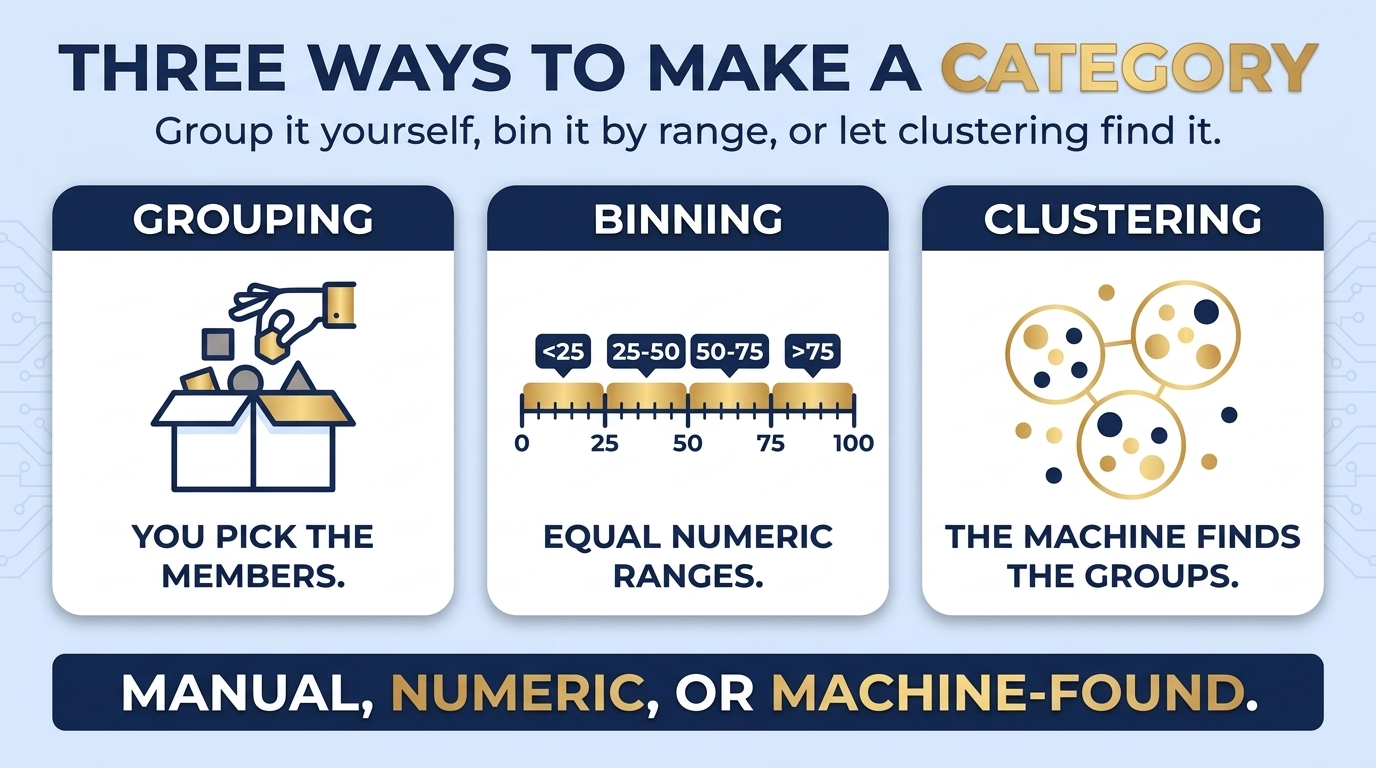
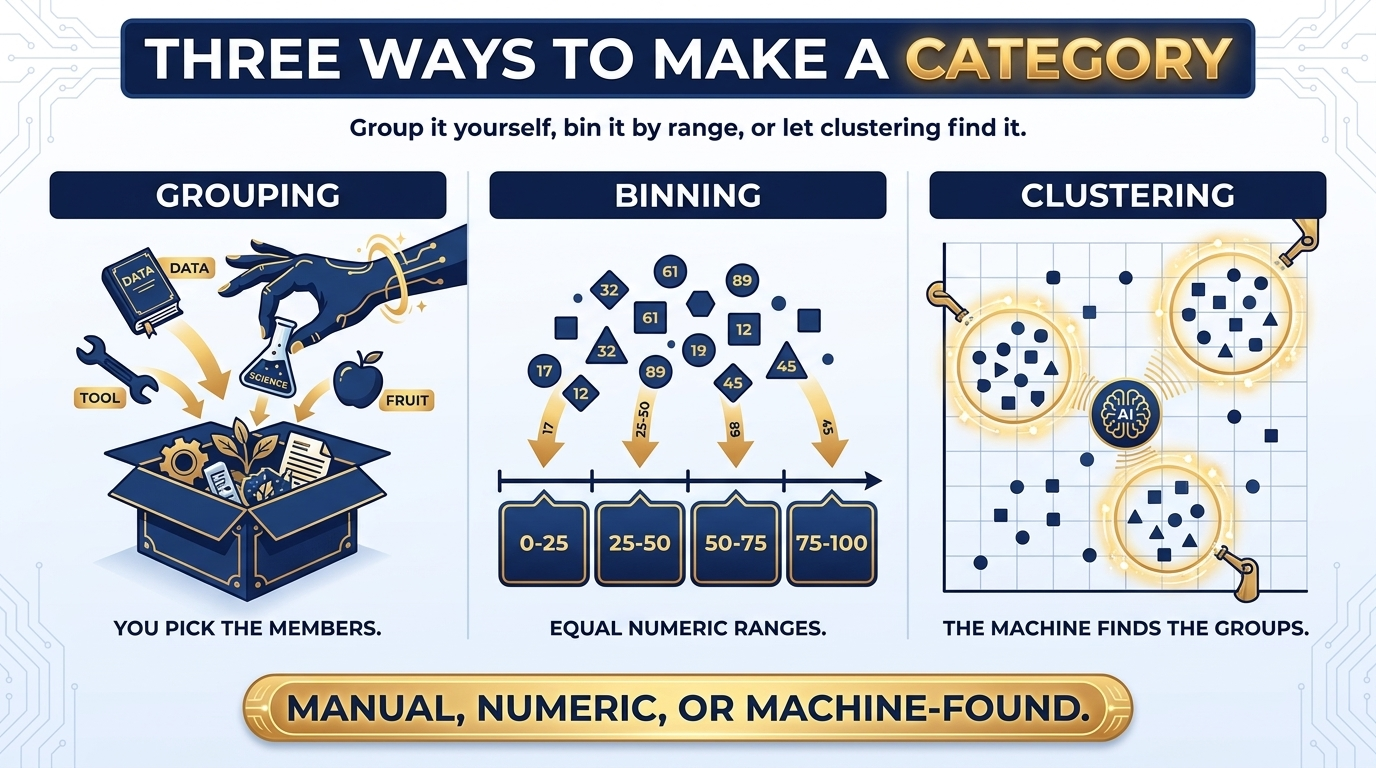
Restyle Chapter 6-7 inner figures; refresh style-reference anchors
Rebuild the inner figures of Chapters 6 and 7 in the rich
master-infographic style, completing the book-wide image restyle.

- Ch6: three ways to make a category (3-panel), the decomposition tree
  (branching tree), before-you-trust-an-AI-insight (checklist).
- Ch7: dashboard/report/app (row diagram), pinning builds a dashboard
  (before/after), and One Report Every Audience (hub-and-spoke) —
  fig-7-4 recomposed from a pipeline so it no longer doubles the Ch7
  opener's journey; renamed accordingly.
- Refresh images/_style-reference/ with current navy/gold figures.
- Each chapter's four figures use four distinct compositions.
- Both chapters build clean with no MyST warnings.

diff --git a/chapters/ch07-dashboards-mobile-distribution.md b/chapters/ch07-dashboards-mobile-distribution.md
@@ -103,8 +103,9 @@ NANO BANANA PRO — CHAPTER 7 FIGURE 2 (concept infographic)
 File: images/ch07/fig-7-2-dashboard-report-app.png
 Title: Dashboard, Report, or App
 Concept: The three Power BI containers compared — what each is and which audience it serves.
-Archetype: Row diagram — three full-width stacked panels, each [icon badge] · [description] · [pill verdict].
-Reference: images/_style-reference/fig-1-3-visual-encoding.png
+Archetype: Rich row diagram — three full-width stacked panels, each an icon badge, an illustrated example, and a pill verdict; ai4educators master-infographic style, navy/gold.
+Reference (composition): ../../.ref-ai4ed/ai4ed-ch01-fig-struggle.png
+Reference (palette): images/ch07/fig-7-1-ch7-at-a-glance.png
 Labels: rows DASHBOARD / AT-A-GLANCE MONITOR, REPORT / EXPLORE THE DETAIL, APP / DELIVER TO EVERYONE; footer "PICK BY WHO THE AUDIENCE IS".
 Palette: navy #1B2A47, gold #C9A23A, white / pale-blue background.
 -->
@@ -151,8 +152,9 @@ NANO BANANA PRO — CHAPTER 7 FIGURE 3 (concept infographic)
 File: images/ch07/fig-7-3-pinning-dashboard.png
 Title: Pinning Builds a Dashboard
 Concept: A dashboard is assembled by pinning individual visuals from one or more report pages into one tiled screen.
-Archetype: Before/after — two side-by-side panels with a central gold arrow.
-Reference: images/_style-reference/fig-3-2-two-reactions.png
+Archetype: Rich before/after — two illustrated panels (report pages with pushpins / one tiled dashboard) with a central PIN arrow; ai4educators master-infographic style, navy/gold.
+Reference (composition): ../../.ref-ai4ed/ai4ed-ch01-fig-tuesdays.png
+Reference (palette): images/ch07/fig-7-1-ch7-at-a-glance.png
 Labels: left panel "REPORT PAGES" (separate report pages with pushpin icons on visuals); right panel "ONE DASHBOARD" (a tidy grid of pinned tiles); footer "PIN THE BEST TILES INTO ONE VIEW".
 Palette: navy #1B2A47, gold #C9A23A, white / pale-blue background.
 -->
@@ -308,22 +310,23 @@ It can feel like a loss of control to let users repaint your visuals and pull yo
 
 <!--
 NANO BANANA PRO — CHAPTER 7 FIGURE 4 (synthesis infographic)
-File: images/ch07/fig-7-4-delivery-pipeline.png
-Title: From One File to Every Screen
-Concept: The delivery pipeline — the stages that carry a report from a laptop file to the whole organization.
-Archetype: Process flow — five numbered stages joined by arrows.
-Reference: images/_style-reference/fig-3-2-two-reactions.png
-Labels: stages BUILD IN DESKTOP, PUBLISH TO THE SERVICE, PIN A DASHBOARD, BUNDLE AN APP, REACHES EVERY DEVICE; banner "BUILDING IT IS HALF THE JOB".
+File: images/ch07/fig-7-4-one-report-every-audience.png
+Title: One Report, Every Audience
+Concept: The case study synthesized — one finished report reaching every audience through the right delivery channel.
+Archetype: Rich hub-and-spoke — a central delivered report with six illustrated delivery-outcome spokes; ai4educators master-infographic style, navy/gold (deliberately NOT a left-to-right pipeline, to differ from the Ch7 opener journey).
+Reference (composition): ../../.ref-ai4ed/ai4ed-ch06-opener.png
+Reference (palette): images/ch07/fig-7-1-ch7-at-a-glance.png
+Labels: hub THE DELIVERED REPORT; spokes EXEC DASHBOARD, MOBILE, DATA ALERT, WEEKLY SUBSCRIPTION, PAGINATED REPORT, PUBLISHED APP; banner "FROM THREE VIEWERS TO THIRTY-EIGHT".
 Palette: navy #1B2A47, gold #C9A23A, white / pale-blue background.
 -->
 
-:::{figure} ../images/ch07/fig-7-4-delivery-pipeline.png
+:::{figure} ../images/ch07/fig-7-4-one-report-every-audience.png
 :label: fig-7-4
-:alt: A five-stage process-flow infographic titled "From One File to Every Screen": build in Desktop, publish to the Service, pin a dashboard, bundle an app, reaches every device. A banner reads "building it is half the job."
+:alt: A hub-and-spoke infographic titled "One Report, Every Audience." A central "delivered report" connects to six delivery outcomes: exec dashboard, mobile, data alert, weekly subscription, paginated report, and published app. A banner reads "from three viewers to thirty-eight."
 :width: 100%
 :align: center
 
-**Figure 7.4.** *From One File to Every Screen.* The delivery pipeline — the case study, drawn as the path the report takes.
+**Figure 7.4.** *One Report, Every Audience.* The case study — one finished report, reaching every audience through the right channel.
 :::
 
 Camila reopened the rollout with Jamal, this time treating delivery as the real work.

diff --git a/chapters/ch06-ai-patterns-anomalies-copilot.md b/chapters/ch06-ai-patterns-anomalies-copilot.md
@@ -100,8 +100,9 @@ NANO BANANA PRO — CHAPTER 6 FIGURE 2 (concept infographic)
 File: images/ch06/fig-6-2-three-ways-category.png
 Title: Three Ways to Make a Category
 Concept: Grouping, binning, and clustering compared — who decides the buckets in each.
-Archetype: Three-panel comparison — three equal side-by-side panels.
-Reference: images/_style-reference/fig-3-2-two-reactions.png
+Archetype: Rich three-panel comparison — three illustrated side-by-side panels; ai4educators master-infographic style, navy/gold.
+Reference (composition): ../../.ref-ai4ed/ai4ed-ch02-opener.png
+Reference (palette): images/ch06/fig-6-1-ch6-at-a-glance.png
 Labels: panels GROUPING / YOU PICK THE MEMBERS, BINNING / EQUAL NUMERIC RANGES, CLUSTERING / THE MACHINE FINDS THE GROUPS; footer "MANUAL, NUMERIC, OR MACHINE-FOUND".
 Palette: navy #1B2A47, gold #C9A23A, white / pale-blue background.
 -->
@@ -178,8 +179,9 @@ NANO BANANA PRO — CHAPTER 6 FIGURE 3 (concept infographic)
 File: images/ch06/fig-6-3-decomposition-tree.png
 Title: The Decomposition Tree
 Concept: How the Decomposition Tree breaks one measure apart, branch by branch, with an optional AI-chosen split.
-Archetype: Tree diagram — a left-to-right branching tree.
-Reference: images/_style-reference/fig-3-2-two-reactions.png
+Archetype: Rich tree diagram — a left-to-right branching tree with illustrated nodes; ai4educators master-infographic style, navy/gold.
+Reference (composition): ../../.ref-ai4ed/ai4ed-ch01-fig-bloom.png
+Reference (palette): images/ch06/fig-6-1-ch6-at-a-glance.png
 Labels: root TOTAL SALES; level 2 BIKES, COMPONENTS, CLOTHING; level 3 (under BIKES) UNITED STATES, GERMANY, AUSTRALIA; GERMANY carries a "HIGH VALUE" badge; footer "CLICK A BRANCH, OR LET AI PICK THE SPLIT".
 Palette: navy #1B2A47, gold #C9A23A, white / pale-blue background.
 -->
@@ -324,8 +326,9 @@ NANO BANANA PRO — CHAPTER 6 FIGURE 4 (synthesis infographic)
 File: images/ch06/fig-6-4-trust-ai-insight.png
 Title: Before You Trust an AI Insight
 Concept: A five-point verification checklist to run on any AI-generated insight before it informs a decision.
-Archetype: Checklist — five stacked check rows.
-Reference: images/_style-reference/fig-1-3-visual-encoding.png
+Archetype: Rich checklist — five stacked check rows, each with a small illustration; ai4educators master-infographic style, navy/gold.
+Reference (composition): ../../.ref-ai4ed/ai4ed-ch01-fig-struggle.png
+Reference (palette): images/ch06/fig-6-1-ch6-at-a-glance.png
 Labels: checks DOES IT MAKE BUSINESS SENSE, IS IT CORRELATION OR CAUSE, COULD THE DATA BE BIASED, CAN YOU TRACE THE NUMBERS, WOULD YOU SIGN YOUR NAME TO IT; footer "THE ANALYST OWNS THE ANSWER, NOT THE AI".
 Palette: navy #1B2A47, gold #C9A23A, white / pale-blue background.
 -->
